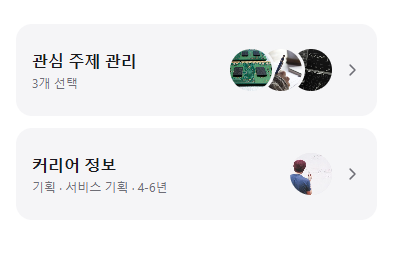
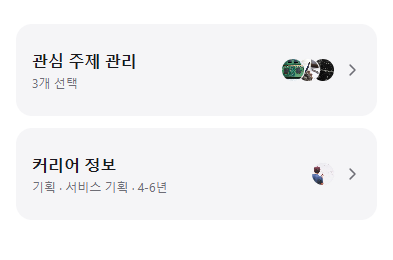
style(profile): halve summary photo size

Changed region(s): [[0.5802, 0.1846, 0.855, 0.3692], [0.7328, 0.6154, 0.8244, 0.7692]]

diff --git a/frontend/src/features/profile/components/ProfilePhotoStack.tsx b/frontend/src/features/profile/components/ProfilePhotoStack.tsx
@@ -2,8 +2,8 @@ import { Image, StyleSheet, View, type ImageSourcePropType } from 'react-native'
 
 import { theme } from '@/shared/theme';
 
-const PHOTO_SIZE = 48;
-const PHOTO_OVERLAP = 18;
+const PHOTO_SIZE = 24;
+const PHOTO_OVERLAP = 9;
 
 interface ProfilePhotoStackProps {
   photos: { id: string; source: ImageSourcePropType }[];
@@ -43,7 +43,7 @@ const styles = StyleSheet.create({
     height: PHOTO_SIZE,
     borderRadius: theme.radius.full,
     borderCurve: 'continuous',
-    borderWidth: 3,
+    borderWidth: 1.5,
     borderColor: theme.color.surface,
     backgroundColor: theme.color.fillMuted,
     overflow: 'hidden',

diff --git a/docs/spec/uiux/profile-uiux.md b/docs/spec/uiux/profile-uiux.md
@@ -151,7 +151,7 @@ P1~P5 ─[⚙ 설정 아이콘]─> 설정 화면 (settings-uiux.md)
 
 - 왼쪽에 **"관심 주제 관리"** + 그 아래 **"N개 선택"**, 오른쪽에 **겹친 원형 주제 사진 최대 3장**을 표시한다(2026-10-10). 제목은 16pt/600, 요약은 12pt/보조색이다.
 - **대표 3개는 별도 선정 기준 없이 서버 응답(`top_topics`) 순서의 앞 3개다**(합의 2026-08-06 — `profile.md` 4.4).
-- 사진 지름은 48pt, 겹침은 18pt, 경계는 카드 면 색의 3pt 테두리다. 사진 위에는 글자·오버레이·별도 `+N`을 두지 않는다. 초과 보유자의 전체 개수는 "N개 선택"으로 전달한다.
+- 사진 지름은 24pt, 겹침은 9pt, 경계는 카드 면 색의 1.5pt 테두리다. 사진 위에는 글자·오버레이·별도 `+N`을 두지 않는다. 초과 보유자의 전체 개수는 "N개 선택"으로 전달한다.
 - 주제명·초과 개수는 카드의 접근성 라벨에 유지한다. 사진은 장식으로 숨기며, 사진을 탭해도 개별 편집이 아니라 카드와 같은 관심사 관리 진입이다.
 - 관심 주제 0개 상태는 없다(4.2 — 최소 1개 강제).
 
